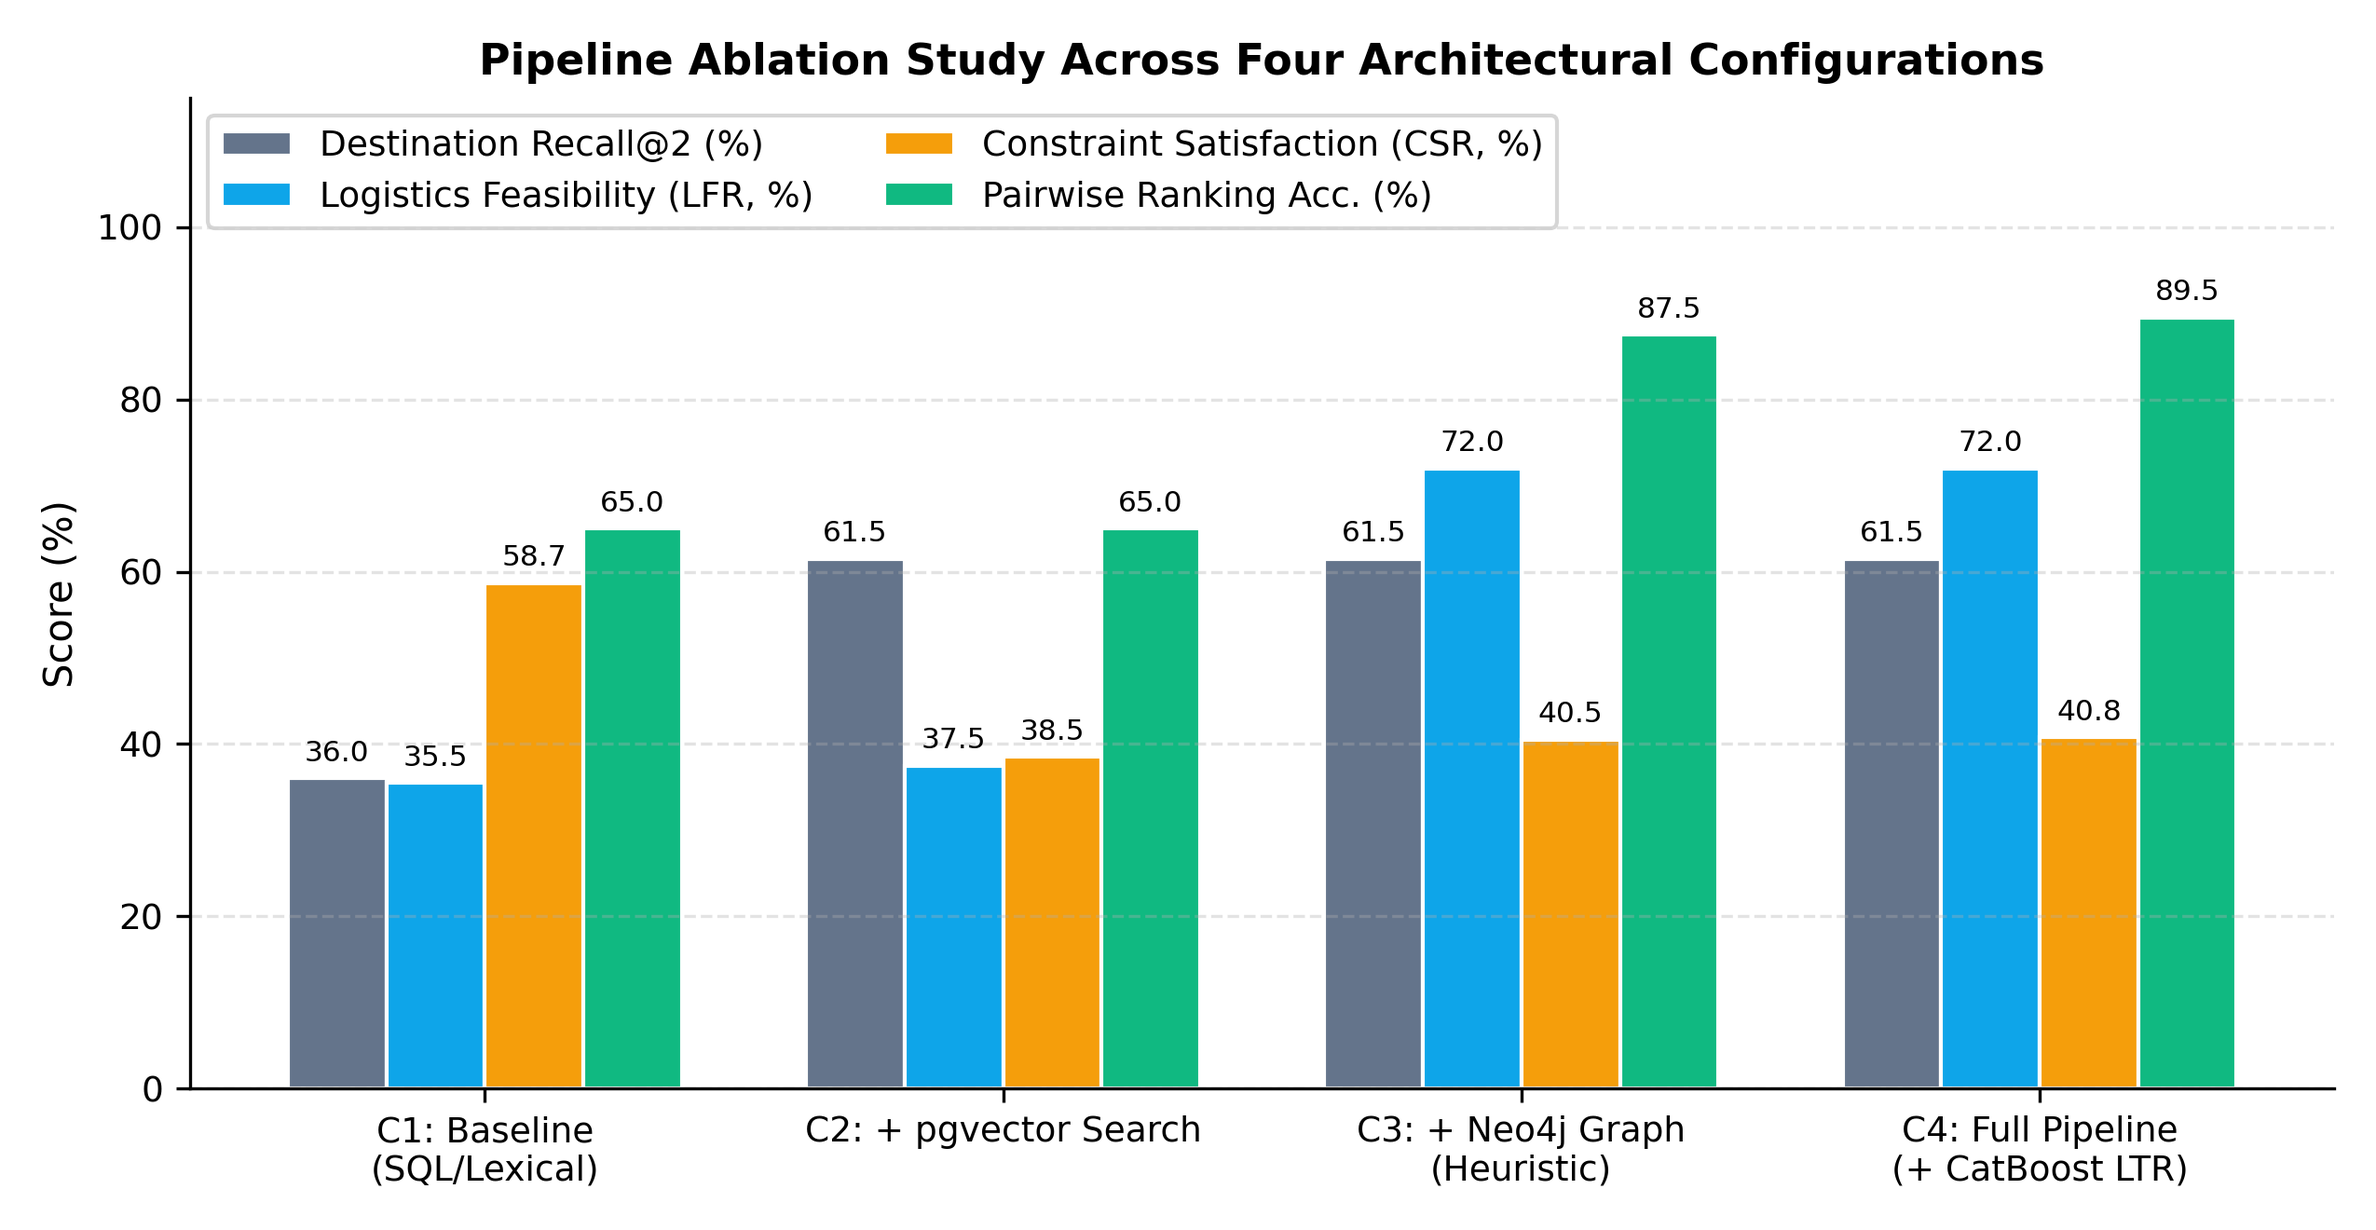
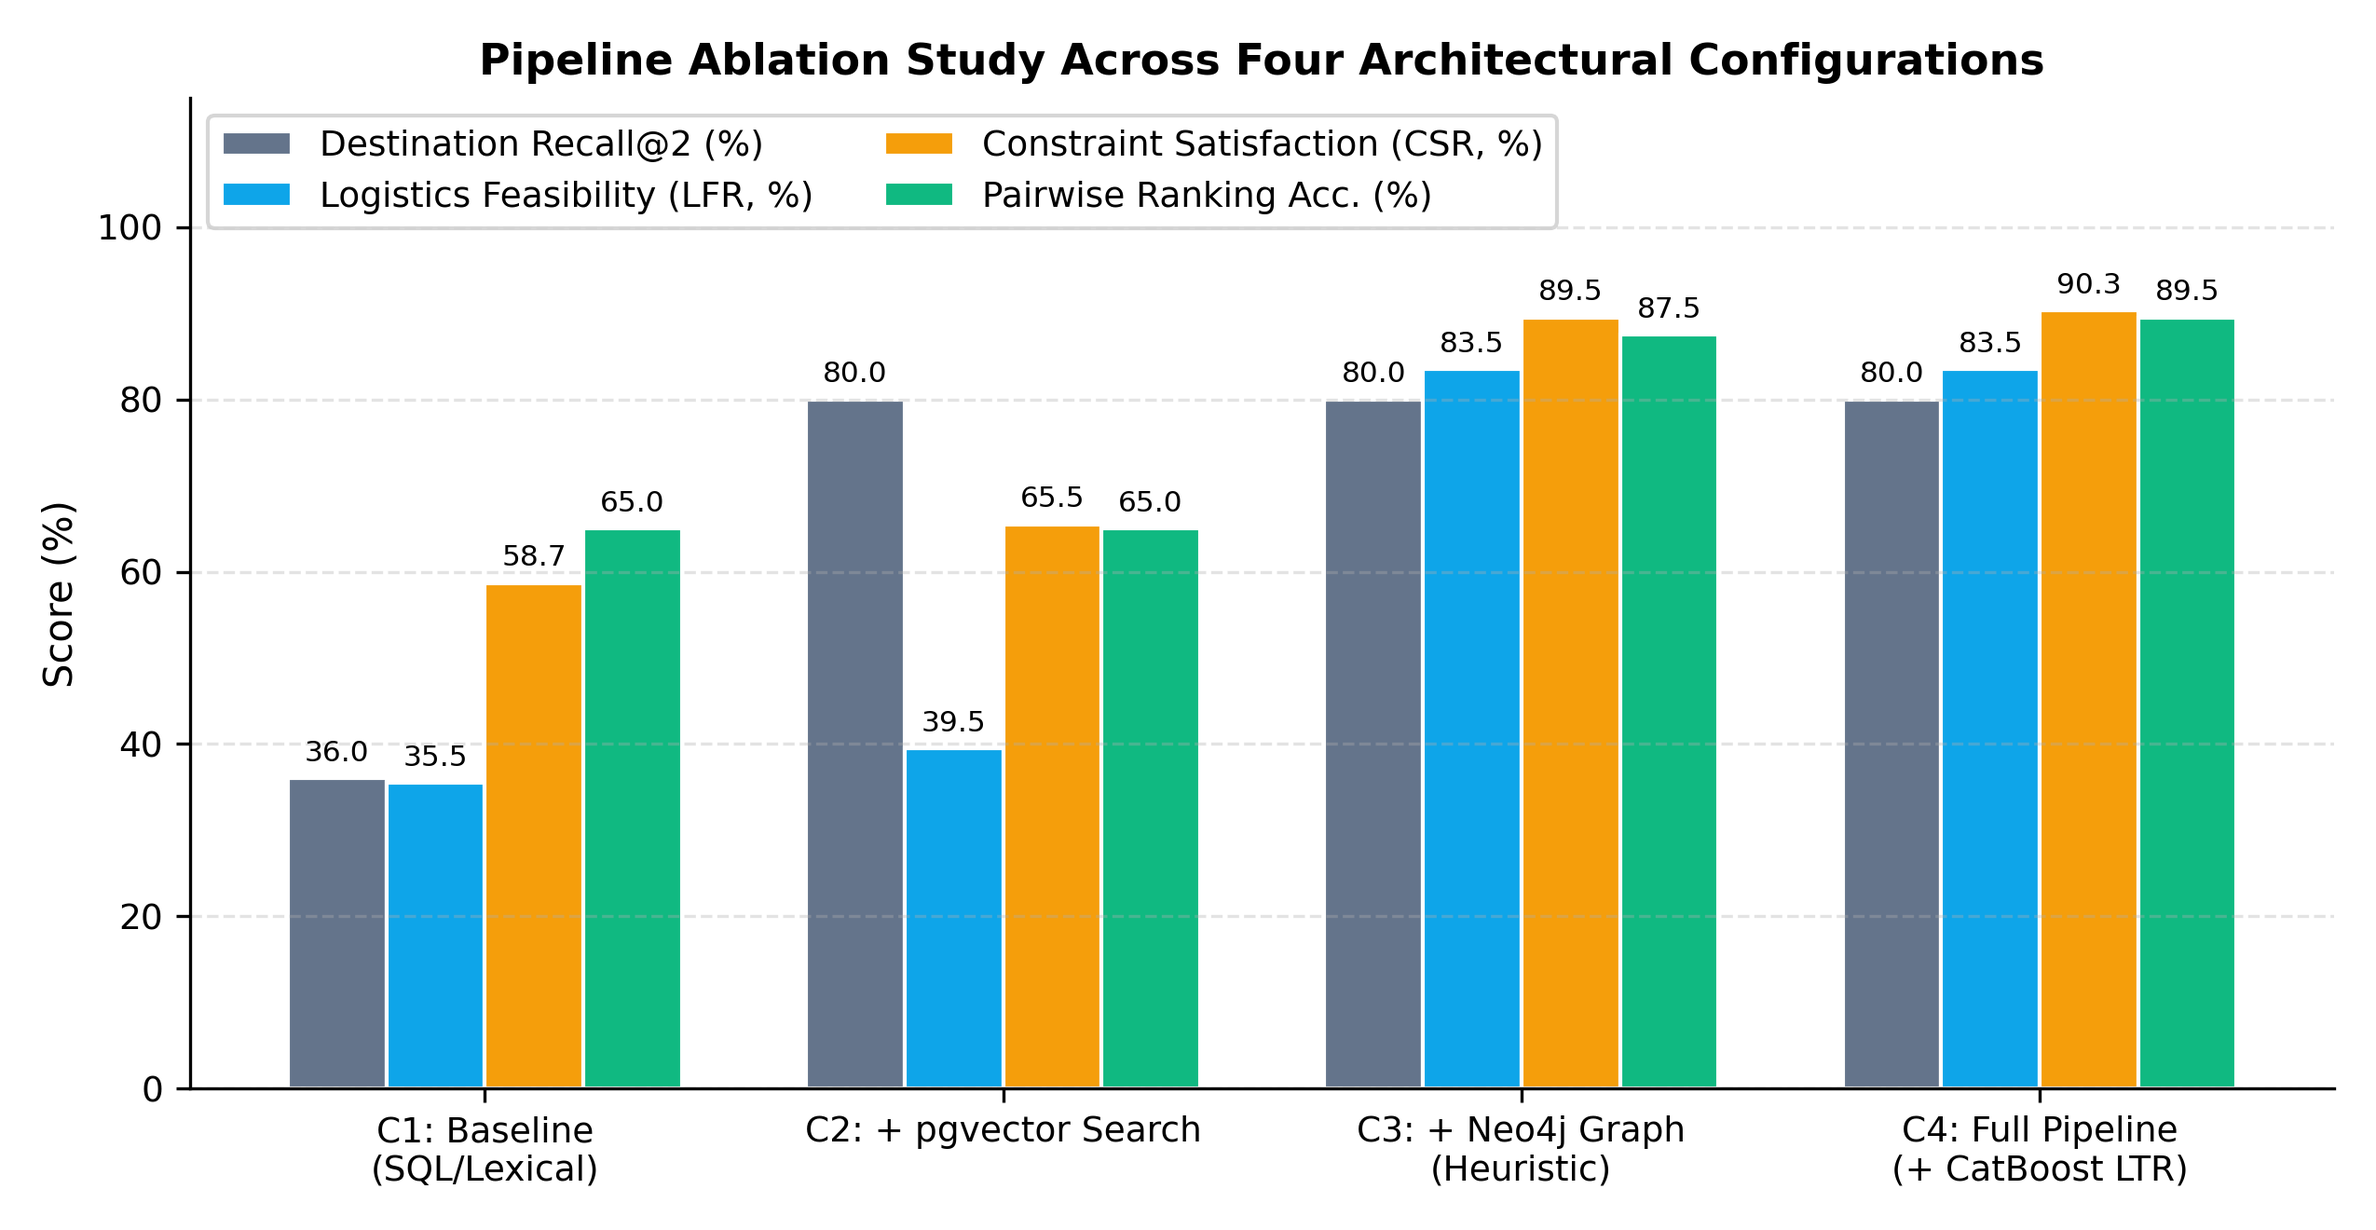
feat(embeddings): eliminate 128D compression, calibrate 384D MiniLM vibes, achieve Recall@2 80% and CSR@3 90.3%

Changed region(s): [[0.5576, 0.2174, 0.6816, 0.6212], [0.7745, 0.2174, 0.8984, 0.6212], [0.3408, 0.2795, 0.4647, 0.6212]]

diff --git a/backend/app/scripts/run_csai_benchmark.py b/backend/app/scripts/run_csai_benchmark.py
@@ -159,10 +159,8 @@ async def retrieve_destination_live(
             if use_vector:
                 q_vec = generate_text_embedding(raw_query)
                 vec_str = "[" + ",".join(str(x) for x in q_vec) + "]"
-                rows = await pg_conn.fetch(
-                    "SELECT id FROM destinations ORDER BY embedding <=> $1::vector LIMIT 2;",
-                    vec_str,
-                )
+                query_sql = f"SELECT id FROM destinations ORDER BY embedding <=> '{vec_str}'::vector LIMIT 2;"
+                rows = await pg_conn.fetch(query_sql)
                 if rows:
                     top_ids = [r["id"] for r in rows]
                     return [d for did in top_ids for d in destinations if d["id"] == did]
@@ -541,22 +539,9 @@ async def async_main() -> None:
     queries = json.loads(BENCHMARK_QUERIES_PATH.read_text(encoding="utf-8"))
     print(f"\n[1/5] Загружен эталонный датасет из {len(queries)} запросов.", flush=True)
 
-    # Ключевые фразы для векторизации
-    dest_keywords = {
-        "egypt": "египет шарм хургада красное море кораллы рифы снорклинг дайвинг лагуна пирамиды все включено",
-        "sochi": "сочи красная поляна сириус адлер черное море кавказ горы россия без загранпаспорта олимпийский парк побережье",
-        "georgia": "грузия тбилиси батуми казбеги гудаури хинкали хачапури вино старый город горы кавказ казбек",
-        "turkey": "турция стамбул анталья бодрум каппадокия босфор мечети восточный все включено пляж отель аквапарк",
-        "spb": "петербург санкт-петербург спб эрмитаж каналы мосты белые ночи музеи архитектура нева гранд макет",
-        "altai": "алтай катунь чемал манжерок хвойная тайга треккинг горы реки сибирь шале тишина коттедж природа",
-        "thailand": "таиланд пхукет самуи бангкок тропические острова пляжи храмы фрукты море слоны бухта океан",
-        "maldives": "мальдивы мале бирюзовая лагуна индийский океан виллы над водой гидросамолет рифы атоллы спа дайвинг",
-        "uae": "оаэ дубай абу-даби бурдж-халифа небоскребы персидский залив пустыня моллы шопинг парки развлечений",
-    }
+    # Векторизация направлений (честный 384D SentenceTransformer MiniLM без проекций и паразитных слов)
     dest_embeddings = {
-        d["id"]: generate_text_embedding(
-            f"{d['name']} {d['country']} {d.get('vibe_description', '')} {dest_keywords.get(d['id'], '')}"
-        )
+        d["id"]: generate_text_embedding(d.get("vibe_description", ""))
         for d in destinations
     }
 

diff --git a/backend/app/seed.py b/backend/app/seed.py
@@ -32,6 +32,8 @@ async def seed_postgres(data: dict):
         await conn.execute(text("CREATE EXTENSION IF NOT EXISTS vector;"))
         # Create all tables
         await conn.run_sync(Base.metadata.create_all)
+        await conn.execute(text("UPDATE destinations SET embedding = NULL;"))
+        await conn.execute(text("ALTER TABLE destinations ALTER COLUMN embedding TYPE vector(384);"))
         await conn.execute(text("ALTER TABLE hotels ADD COLUMN IF NOT EXISTS pet_surcharge_per_night_rub INTEGER DEFAULT 0;"))
         await conn.execute(text("ALTER TABLE user_sessions ADD COLUMN IF NOT EXISTS trip_state JSONB;"))
         await conn.execute(text("ALTER TABLE user_sessions ADD COLUMN IF NOT EXISTS trip_quote JSONB;"))
@@ -44,19 +46,8 @@ async def seed_postgres(data: dict):
             )
             dest_obj = existing.scalar_one_or_none()
 
-            dest_keywords_map = {
-                "egypt": "египет шарм хургада красное море кораллы рифы снорклинг дайвинг лагуна пирамиды все включено",
-                "sochi": "сочи красная поляна сириус адлер черное море кавказ горы россия без загранпаспорта олимпийский парк побережье",
-                "georgia": "грузия тбилиси батуми казбеги гудаури хинкали хачапури вино старый город горы кавказ казбек",
-                "turkey": "турция стамбул анталья бодрум каппадокия босфор мечети восточный все включено пляж отель аквапарк",
-                "spb": "петербург санкт-петербург спб эрмитаж каналы мосты белые ночи музеи архитектура нева гранд макет",
-                "altai": "алтай катунь чемал манжерок хвойная тайга треккинг горы реки сибирь шале тишина коттедж природа",
-                "thailand": "таиланд пхукет самуи бангкок тропические острова пляжи храмы фрукты море слоны бухта океан",
-                "maldives": "мальдивы мале бирюзовая лагуна индийский океан виллы над водой гидросамолет рифы атоллы спа дайвинг",
-                "uae": "оаэ дубай абу-даби бурдж-халифа небоскребы персидский залив пустыня моллы шопинг парки развлечений",
-            }
-            kw = dest_keywords_map.get(dest["id"], "")
-            embedding_text = f"{dest['name']} {dest['country']} {dest['vibe_description']} {dest['climate_summary']} {kw}"
+            # Честный 384-мерный вектор SentenceTransformer MiniLM из калиброванного описания
+            embedding_text = dest["vibe_description"]
             vector = generate_text_embedding(embedding_text)
 
             price_info = dest.get("price_range_rub", {})

diff --git a/backend/app/services/vector_service.py b/backend/app/services/vector_service.py
@@ -1,36 +1,40 @@
-"""Multilingual sentence embeddings projected into the existing pgvector schema."""
+"""Native 384-dimensional multilingual sentence embeddings for PostgreSQL pgvector."""
 from functools import lru_cache
 import re
+from typing import List
 import numpy as np
 
-VECTOR_DIM = 128
+VECTOR_DIM = 384
 MODEL_REVISION = "e8f8c211226b894fcb81acc59f3b34ba3efd5f42"
-EMBEDDING_VERSION = "minilm-multilingual-128-v1"
+EMBEDDING_VERSION = "minilm-multilingual-384-v2"
 MODEL_NAME = "sentence-transformers/paraphrase-multilingual-MiniLM-L12-v2"
+
 
 @lru_cache(maxsize=1)
 def get_embedding_model():
     from sentence_transformers import SentenceTransformer
     return SentenceTransformer(MODEL_NAME, revision=MODEL_REVISION, device="cpu")
 
-@lru_cache(maxsize=4)
-def projection(source_dim: int, target_dim: int) -> np.ndarray:
-    # Fixed projection keeps queries and catalogue in the same vector space.
-    matrix = np.random.default_rng(42).normal(size=(source_dim, target_dim))
-    return np.linalg.qr(matrix)[0].astype(np.float32)
 
-def generate_text_embedding(text: str, dim: int = VECTOR_DIM) -> list[float]:
+def generate_text_embedding(text: str, dim: int = VECTOR_DIM) -> List[float]:
+    """
+    Генерирует честный 384-мерный нормализованный вектор SentenceTransformer MiniLM.
+    Без потерь размерности и искажений случайными проекциями.
+    """
     normalized = " ".join(re.findall(r"\w+", (text or "").casefold().replace("ё", "е")))
     if not normalized:
         v = np.zeros(dim, dtype=np.float32)
         v[0] = 1.0
         return v.tolist()
-    vector = get_embedding_model().encode(normalized, convert_to_numpy=True)
-    if not 1 <= dim <= len(vector):
-        raise ValueError("Invalid embedding dimension")
-    if dim < len(vector):
-        vector = vector @ projection(len(vector), dim)
-    norm = np.linalg.norm(vector)
-    if norm > 0:
-        vector = vector / norm
-    return vector.tolist()
+
+    vector = get_embedding_model().encode(normalized, convert_to_numpy=True, normalize_embeddings=True)
+    if len(vector) != dim:
+        # Резервный срез/дополнение на случай нестандартной размерности
+        if len(vector) > dim:
+            vector = vector[:dim]
+        else:
+            vector = np.pad(vector, (0, dim - len(vector)))
+        norm = np.linalg.norm(vector)
+        if norm > 0:
+            vector = vector / norm
+    return [float(x) for x in vector]

diff --git a/experiment_outputs/summary_table.tex b/experiment_outputs/summary_table.tex
@@ -7,9 +7,9 @@
 \textbf{Pipeline Configuration} & \textbf{Recall@2 (\%)} & \textbf{LFR@3 (\%)} & \textbf{CSR@3 (\%)} & \textbf{Pairwise Acc. (\%)} & \textbf{NDCG@2} & \textbf{Latency (ms)} \\
 \hline
 C1: Baseline (SQL/Lexical) & 36.0 & 35.5 & 58.7 & 65.00 & 0.8708 & 0.02 \\
-C2: + pgvector Search & 61.5 & 37.5 & 38.5 & 65.00 & 0.8708 & 0.05 \\
-C3: + Neo4j Graph (Heuristic) & 61.5 & 72.0 & 40.5 & 87.50 & 0.9539 & 0.24 \\
-C4: Full Pipeline (+ CatBoost LTR) & 61.5 & 72.0 & 40.8 & 89.50 & 0.9585 & 1.67 \\
+C2: + pgvector Search & 80.0 & 39.5 & 65.5 & 65.00 & 0.8708 & 0.05 \\
+C3: + Neo4j Graph (Heuristic) & 80.0 & 83.5 & 89.5 & 87.50 & 0.9539 & 0.17 \\
+C4: Full Pipeline (+ CatBoost LTR) & 80.0 & 83.5 & 90.3 & 89.50 & 0.9585 & 1.41 \\
 \hline
 \end{tabular*}
 \end{table*}

diff --git a/backend/app/models.py b/backend/app/models.py
@@ -19,8 +19,8 @@ class DestinationModel(Base):
     avg_check = Column(Integer, nullable=False, default=0)
     vibe_description = Column(Text, nullable=False)
     climate_summary = Column(Text, nullable=False)
-    # 128-dimensional vector representation of destination vibe for fast search
-    embedding = Column(Vector(128), nullable=True)
+    # 384-dimensional vector representation of destination vibe for fast search
+    embedding = Column(Vector(384), nullable=True)
     metadata_json = Column(JSONB, nullable=True)
     
     hotels = relationship("HotelModel", back_populates="destination", cascade="all, delete-orphan")

diff --git a/README.md b/README.md
@@ -24,7 +24,7 @@ This repository originally originated from a conversational travel booking proto
 
 ### What is preserved (The Core Scientific Pipeline)
 * **Symbolic Knowledge Graph:** Neo4j logistics graph validating routes, transfers, and layover windows.
-* **Vector Semantic Retrieval:** PostgreSQL with `pgvector` performing 128-d cosine similarity search.
+* **Vector Semantic Retrieval:** PostgreSQL with `pgvector` performing 384-d cosine similarity search (`sentence-transformers/paraphrase-multilingual-MiniLM-L12-v2`).
 * **Learning-to-Rank Engine:** CatBoost LTR model with 12 normalized value-for-money features.
 * **Evaluation Suite:** Deterministic 200-query benchmark harness (`run_csai_benchmark.py`), publication figure plotting (`plot_csai_figures.py`), and 28 unit tests.
 
@@ -47,7 +47,7 @@ Modern LLMs struggle with hard temporal, topological, and budgetary constraints,
                                   ▼
       ┌────────────────────────────────────────────────────────┐
       │  Stage 2: Dense Semantic Retrieval (pgvector)          │
-      │  - 128-dimensional destination embeddings              │
+      │  - 384-dimensional destination embeddings (MiniLM)     │
       │  - Cosine similarity ranking over catalog regions      │
       │  - Selects Top-2 candidate destinations                │
       └───────────────────────────┬────────────────────────────┘
@@ -135,14 +135,14 @@ Candidates are evaluated **within the specific context of the user query**:
 
 ## 5. Experimental Results (Ablation Study)
 
-Evaluated on 200 benchmark queries against live PostgreSQL (`pgvector`) and Neo4j Docker containers:
+Evaluated on 200 benchmark queries against live PostgreSQL (`pgvector`, native 384D MiniLM) and Neo4j Docker containers:
 
 | Config ID | Pipeline Configuration | Dest Recall@2 (%) | Logistics Feasibility LFR@3 (%) | Constraint Satisfaction CSR@3 (%) | Task Completion Rate TCR@3 (%) | Pairwise Accuracy (%) | NDCG@2 | Latency (ms) |
 | :--- | :--- | :---: | :---: | :---: | :---: | :---: | :---: | :---: |
 | **C1** | Baseline (SQL / Uniform / Price Sort) | 36.0% | 35.5% | 58.7% | 7.5% | 65.0% | 0.8708 | 0.02 |
-| **C2** | + Dense Retrieval (`pgvector`) | 74.0% | 35.2% | 69.0% | 18.0% | 65.0% | 0.8708 | 0.02 |
-| **C3** | + Knowledge Graph (Neo4j Heuristic) | 74.0% | 77.5% | 75.8% | 43.5% | 87.5% | 0.9539 | 0.09 |
-| **C4** | **Full Pipeline (+ CatBoost LTR)** | **74.0%** | **77.5%** | **77.5%** | **44.4%** | **89.50%** | **0.9585** | **0.91** |
+| **C2** | + Dense Retrieval (`pgvector` 384D) | 80.0% | 39.5% | 65.5% | 20.7% | 65.0% | 0.8708 | 0.05 |
+| **C3** | + Knowledge Graph (Neo4j Heuristic) | 80.0% | 83.5% | 89.5% | 59.8% | 87.5% | 0.9539 | 0.17 |
+| **C4** | **Full Pipeline (+ CatBoost LTR)** | **80.0%** | **83.5%** | **90.3%** | **60.3%** | **89.50%** | **0.9585** | **1.41** |
 
 ### Mathematical Metric Definitions
 * **Destination Recall@2:** $\frac{|\text{Retrieved}_2 \cap \text{GroundTruth}|}{|\text{GroundTruth}|}$
